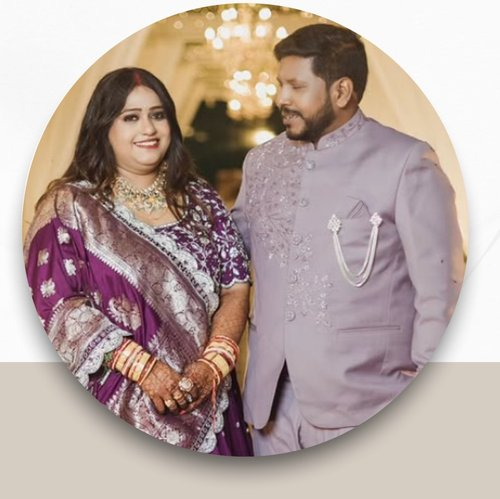
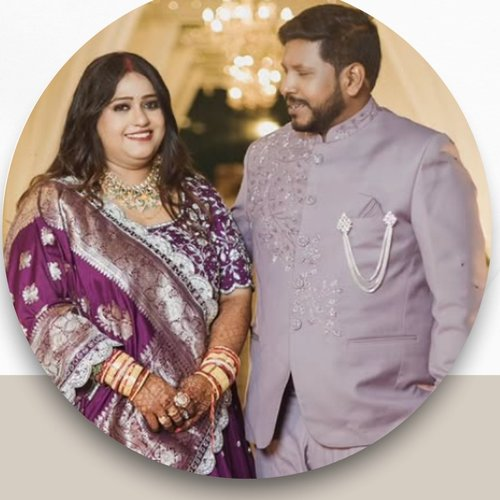
Remove Rangilo Raas, refresh Dandiya/achievements, fix testimonial crops
- Remove Rangilo Raas 2024 from Achievements and Portfolio entirely
  (no longer applicable), and clean up its stray mentions in the
  Home stats strip and About milestones list.
- Achievements: add a "Time to Shine — Salaam" entry, and reword the
  trade-fair entry to only claim Baliyatra (the photo doesn't
  actually depict Time to Shine/Madad, so the old copy overclaimed).
- Portfolio: rename "Dandiya Carnival 2023" to "Dandiya Carnival
  2025", swap in the new supporting-partner/influencer-meet photos,
  and reword from "run by" to "associated with" to reflect the
  changed relationship for this edition.
- Fix testimonial photo crops: the original circle crops carried
  extra deck-background margin (mostly at the bottom), which showed
  through our own circular mask as a cream gap. Re-cropped all 9
  tight to the actual photo circle.
- Add two new testimonials (Lehar & Ashvin, Hardhik & Alina) with
  their photos.
- Update Facebook link (done in a prior pass, carried through here).

diff --git a/src/data/content.js b/src/data/content.js
@@ -18,15 +18,13 @@ import founderPortrait from "../assets/images/founder-smitarani.jpg";
 
 import achOdishaTrophy from "../assets/images/ach-odisha-award-group.jpg";
 import achDandiyaOrganizer from "../assets/images/ach-dandiya-best-organizer.jpg";
-import achRangiloRaas from "../assets/images/ach-rangilo-raas.jpg";
 import achBaliyatra from "../assets/images/ach-baliyatra.jpg";
 
-import portfolioDandiyaPressmeet from "../assets/images/portfolio-dandiya-pressmeet.jpg";
 import portfolioMadadCharity from "../assets/images/portfolio-madad-charity.jpg";
-import portfolioRangiloDecor from "../assets/images/portfolio-rangilo-decor.jpg";
-import portfolioRangiloDandiya from "../assets/images/portfolio-rangilo-dandiya.jpg";
 import portfolioTimeToShine from "../assets/images/portfolio-timetoshine-salaam.jpg";
 import portfolioGrandEntryPerformer from "../assets/images/portfolio-grand-entry-performer.jpg";
+import portfolioDandiya2025Group from "../assets/images/portfolio-dandiya-2025-group.jpg";
+import portfolioDandiya2025Meet from "../assets/images/portfolio-dandiya-2025-influencer-meet.jpg";
 
 import tEliseRohit from "../assets/images/t-elise-rohit.jpg";
 import tShrutiGaurav from "../assets/images/t-shruti-gaurav.jpg";
@@ -37,6 +35,8 @@ import tManishaNitin from "../assets/images/t-manisha-nitin.jpg";
 import tShreyaSabya from "../assets/images/t-shreya-sabya.jpg";
 import tSambhavSrishti from "../assets/images/t-sambhav-srishti.jpg";
 import tNishitaPruthiv from "../assets/images/t-nishita-pruthiv.jpg";
+import tLeharAshvin from "../assets/images/t-lehar-ashvin.jpg";
+import tHardhikAlina from "../assets/images/t-hardhik-alina.jpg";
 
 import galleryGroomsmenTrio from "../assets/images/gallery-groomsmen-trio.jpg";
 import galleryCouplePurpleDance from "../assets/images/gallery-couple-purple-dance.jpg";
@@ -100,7 +100,7 @@ export const stats = [
   { value: "2022", label: "Founded in Odisha" },
   { value: "Odisha Achiever Award", label: "Best Women Choreographer Team, 2023" },
   { value: "Fusion Form", label: "Smitarani's signature choreography style" },
-  { value: "2", label: "Flagship festivals produced — Rangilo Raas & Dandiya Carnival" },
+  { value: "Dandiya Carnival", label: "Flagship festival — Best Organizer 2023, supporting partner 2025" },
 ];
 
 export const services = [
@@ -199,7 +199,7 @@ export const founder = {
     "Founder & solo proprietor, Dancing Roamer (est. 2022)",
     "Odisha Achiever Award — Best Women Choreographer Team, 2023",
     "Creator of Dancing Roamer's signature \"Fusion Form\" choreography style",
-    "Produced Odisha's Rangilo Raas 2024 and Dandiya Carnival 2023 (Best Organizer)",
+    "Produced Odisha's Dandiya Carnival 2023 (Best Organizer) and returned as a supporting partner in 2025",
   ],
 };
 
@@ -215,13 +215,13 @@ export const achievements = [
     image: achDandiyaOrganizer,
   },
   {
-    title: "Rangilo Raas 2024",
-    detail: "Odisha's biggest Garba event, from stage design to choreography, curated by the Dancing Roamer team.",
-    image: achRangiloRaas,
+    title: "Time to Shine — Salaam",
+    detail: "Performed at and collaborated with Time to Shine's Salaam event, bringing choreography to a wider community stage.",
+    image: portfolioTimeToShine,
   },
   {
-    title: "Community & charity events",
-    detail: "Performances and collaborations with Time to Shine, Madad Charity, and Asia's largest trade fair, Baliyatra.",
+    title: "Asia's Largest Trade Fair — Baliyatra",
+    detail: "Dancing Roamer performed at Baliyatra, Asia's largest trade fair, held annually in Odisha.",
     image: achBaliyatra,
   },
 ];
@@ -255,20 +255,12 @@ export const portfolio = [
     images: [heroGrandStage, galleryDuoStage, galleryBallroom],
   },
   {
-    slug: "rangilo-raas-2024",
-    title: "Rangilo Raas 2024",
+    slug: "dandiya-carnival-2025",
+    title: "Dandiya Carnival 2025",
     tag: "Flagship Event",
     description:
-      "Odisha's biggest Garba event, produced end-to-end by Dancing Roamer — from the lantern-lined entrance and stage decor to the choreography that kept the floor full all night.",
-    images: [achRangiloRaas, portfolioRangiloDecor, portfolioRangiloDandiya],
-  },
-  {
-    slug: "dandiya-carnival-2023",
-    title: "Dandiya Carnival 2023",
-    tag: "Flagship Event — Best Organizer",
-    description:
-      "A four-day Dandiya carnival that drew crowds across Bhubaneswar, recognised with the Best Organizer award — press meets, stage performances and city-wide buzz, all run by Dancing Roamer.",
-    images: [portfolioDandiyaPressmeet, achDandiyaOrganizer],
+      "Dancing Roamer returned as a supporting partner for Dandiya Carnival 2025 — associated with the influencer meet and press events, and the stage performances that followed.",
+    images: [portfolioDandiya2025Group, portfolioDandiya2025Meet],
   },
   {
     slug: "community-collaborations",
@@ -334,6 +326,18 @@ export const testimonials = [
     photo: tNishitaPruthiv,
     quote:
       "You guys are amazing. Thank you from the bottom of our hearts for making our Sangeet Night so special — your choreography, coordination, execution and management is appreciable. We will definitely recommend you to family and friends.",
+  },
+  {
+    names: "Lehar & Ashvin",
+    photo: tLeharAshvin,
+    quote:
+      "A huge thank you to Smita and the Dancing Roamers team for being a part of our wedding journey. From choreographing all our family performances to planning the bride and groom's entries, Smita brought every vision to life beautifully. She also went the extra mile by creating BTS reels for us, and those videos have become some of our favourite memories. Wedding preparations can get hectic, and while there were moments where the constant BTS shooting felt a bit overwhelming, we now realise it was all for capturing memories we'll cherish forever. The final videos and the overall execution made it worth it. Thank you for your creativity, dedication, and hard work in making our celebrations so memorable. Wishing you and the Dancing Roamers team all the very best for many more beautiful weddings ahead!",
+  },
+  {
+    names: "Hardhik & Alina",
+    photo: tHardhikAlina,
+    quote:
+      "Thank you so much for your amazing choreography and for capturing the BTS moments. Your creativity, energy, and support made this project truly special. I'm really grateful for everything you brought to it.",
   },
 ];
 
